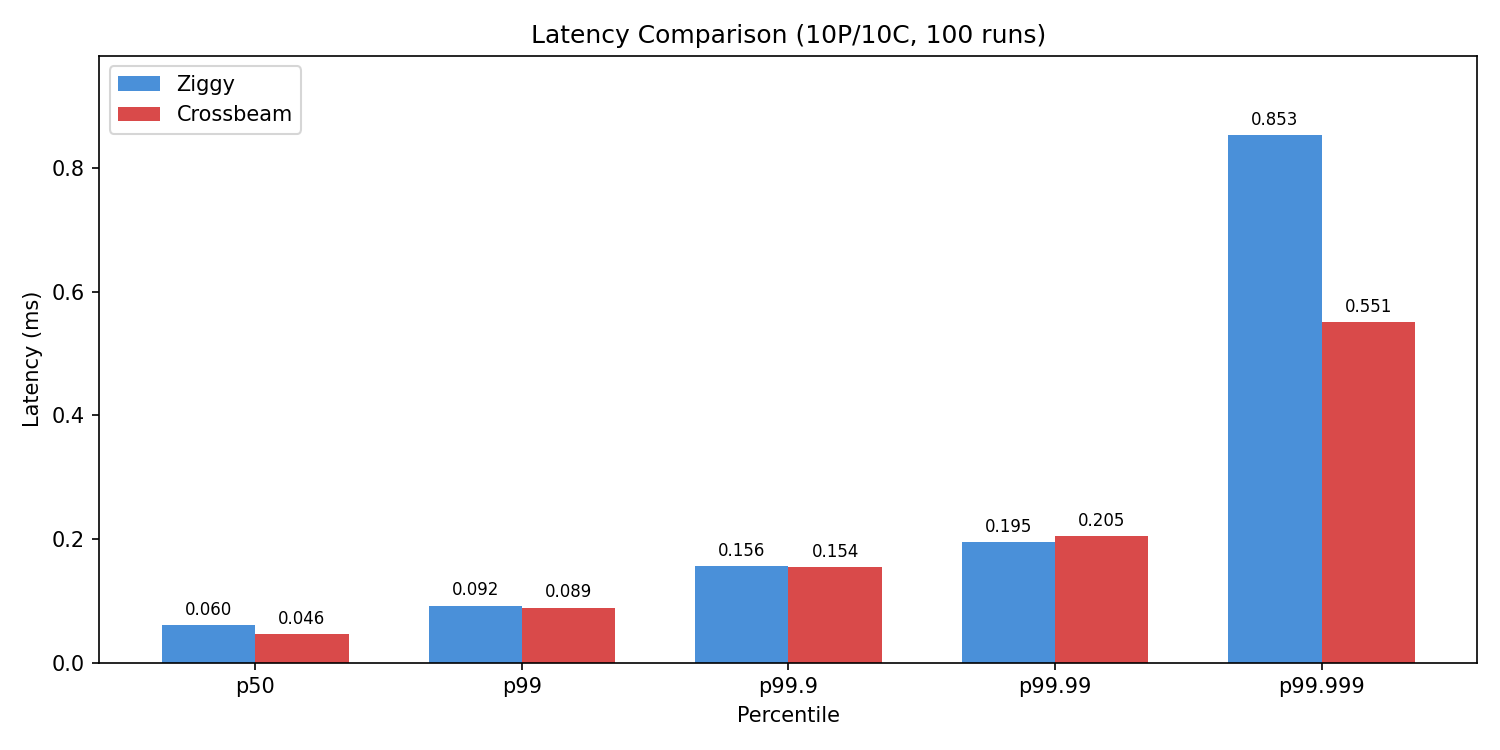
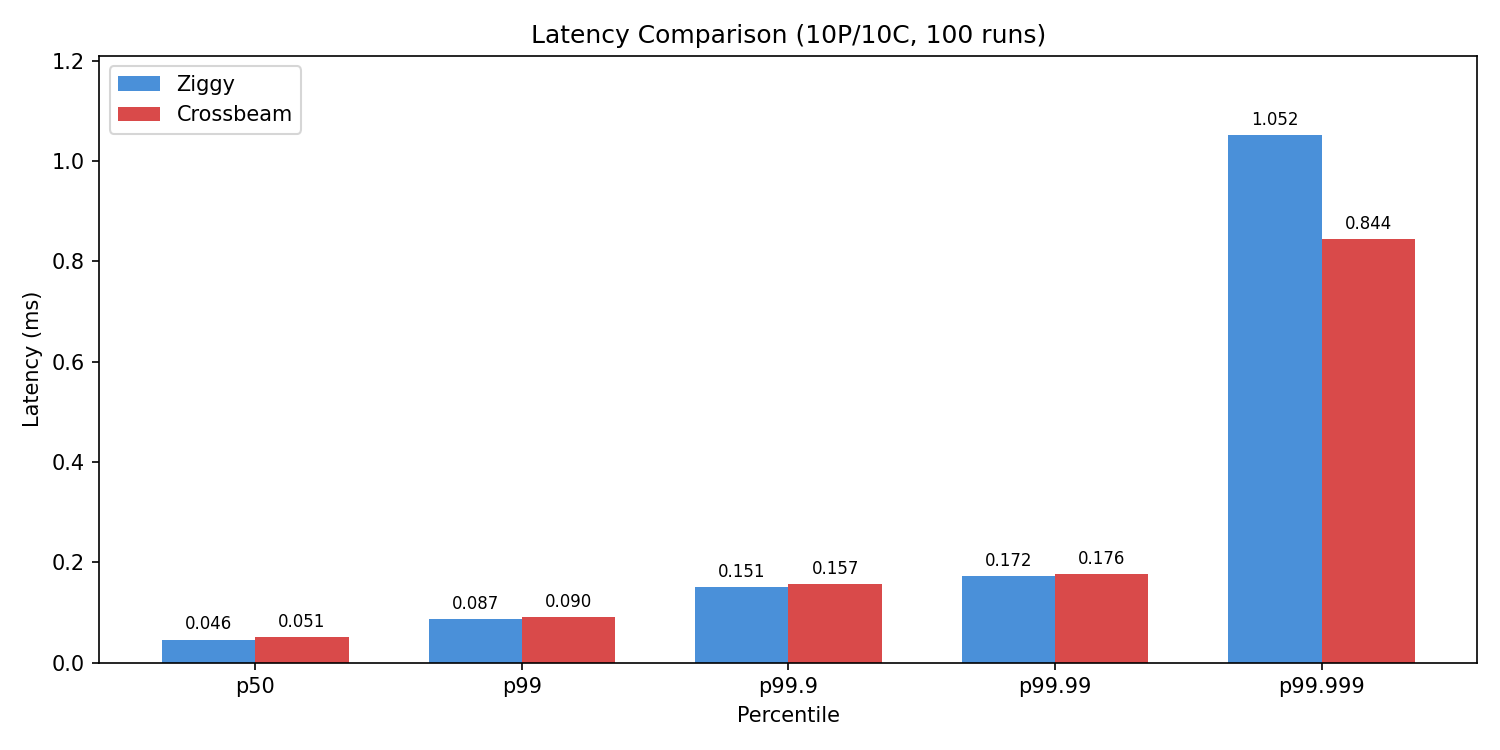
fix crossbeam benchmark to use blocking recv, update results

diff --git a/benchmarks/crossbeam/src/main.rs b/benchmarks/crossbeam/src/main.rs
@@ -1,14 +1,19 @@
 use crossbeam_channel::bounded;
-use std::sync::atomic::{AtomicU32, Ordering};
 use std::sync::Arc;
+use std::sync::atomic::{AtomicU32, Ordering};
 use std::thread;
 use std::time::Instant;
 
 fn main() {
-    let cpus = thread::available_parallelism().map(|p| p.get()).unwrap_or(4);
+    let cpus = thread::available_parallelism()
+        .map(|p| p.get())
+        .unwrap_or(4);
     let threads_per_side = (cpus / 2).max(1) as u32;
 
-    println!("=== Crossbeam: {} CPUs, using {}P/{}C ===\n", cpus, threads_per_side, threads_per_side);
+    println!(
+        "=== Crossbeam: {} CPUs, using {}P/{}C ===\n",
+        cpus, threads_per_side, threads_per_side
+    );
 
     println!("=== THROUGHPUT ===");
     run_throughput_benchmark(threads_per_side, threads_per_side, 1_000_000, 512);
@@ -17,7 +22,12 @@ fn main() {
     run_latency_benchmark(threads_per_side, threads_per_side, 100_000, 512);
 }
 
-fn run_throughput_benchmark(num_producers: u32, num_consumers: u32, total_items: u32, ring_size: usize) {
+fn run_throughput_benchmark(
+    num_producers: u32,
+    num_consumers: u32,
+    total_items: u32,
+    ring_size: usize,
+) {
     let (tx, rx) = bounded::<u64>(ring_size);
     let consumed = Arc::new(AtomicU32::new(0));
     let items_per_producer = total_items / num_producers;
@@ -42,7 +52,7 @@ fn run_throughput_benchmark(num_producers: u32, num_consumers: u32, total_items:
             let consumed = consumed.clone();
             thread::spawn(move || {
                 while consumed.load(Ordering::Relaxed) < actual_total {
-                    if rx.try_recv().is_ok() {
+                    if rx.recv().is_ok() {
                         consumed.fetch_add(1, Ordering::Relaxed);
                     }
                 }
@@ -50,22 +60,40 @@ fn run_throughput_benchmark(num_producers: u32, num_consumers: u32, total_items:
         })
         .collect();
 
-    for p in producers { p.join().unwrap(); }
+    for p in producers {
+        p.join().unwrap();
+    }
     drop(tx);
-    for c in consumers { c.join().unwrap(); }
+    for c in consumers {
+        c.join().unwrap();
+    }
 
     let elapsed = start.elapsed().as_nanos() as u64;
-    let ops_per_sec = if elapsed > 0 { (actual_total as u64 * 1_000_000_000) / elapsed } else { 0 };
-    println!("{}P/{}C: {} ops/sec", num_producers, num_consumers, ops_per_sec);
+    let ops_per_sec = if elapsed > 0 {
+        (actual_total as u64 * 1_000_000_000) / elapsed
+    } else {
+        0
+    };
+    println!(
+        "{}P/{}C: {} ops/sec",
+        num_producers, num_consumers, ops_per_sec
+    );
 }
 
-fn run_latency_benchmark(num_producers: u32, num_consumers: u32, total_items: u32, ring_size: usize) {
+fn run_latency_benchmark(
+    num_producers: u32,
+    num_consumers: u32,
+    total_items: u32,
+    ring_size: usize,
+) {
     let (tx, rx) = bounded::<(Instant, u64)>(ring_size);
     let consumed = Arc::new(AtomicU32::new(0));
     let items_per_producer = total_items / num_producers;
     let actual_total = items_per_producer * num_producers;
 
-    let latencies = Arc::new(std::sync::Mutex::new(Vec::with_capacity(actual_total as usize)));
+    let latencies = Arc::new(std::sync::Mutex::new(Vec::with_capacity(
+        actual_total as usize,
+    )));
 
     let start = Instant::now();
 
@@ -88,7 +116,7 @@ fn run_latency_benchmark(num_producers: u32, num_consumers: u32, total_items: u3
             thread::spawn(move || {
                 let mut local_latencies = Vec::new();
                 while consumed.load(Ordering::Relaxed) < actual_total {
-                    if let Ok((send_time, _)) = rx.try_recv() {
+                    if let Ok((send_time, _)) = rx.recv() {
                         local_latencies.push(send_time.elapsed().as_nanos() as i64);
                         consumed.fetch_add(1, Ordering::Relaxed);
                     }
@@ -98,9 +126,13 @@ fn run_latency_benchmark(num_producers: u32, num_consumers: u32, total_items: u3
         })
         .collect();
 
-    for p in producers { p.join().unwrap(); }
+    for p in producers {
+        p.join().unwrap();
+    }
     drop(tx);
-    for c in consumers { c.join().unwrap(); }
+    for c in consumers {
+        c.join().unwrap();
+    }
 
     let end = Instant::now();
     let mut latencies = Arc::try_unwrap(latencies).unwrap().into_inner().unwrap();
@@ -119,7 +151,16 @@ fn run_latency_benchmark(num_producers: u32, num_consumers: u32, total_items: u3
     let p99999 = latencies[((n * 99999) / 100000).min(n - 1)];
     let elapsed_ms = (end - start).as_millis();
 
-    println!("{}P/{}C ({} samples, {}ms):", num_producers, num_consumers, n, elapsed_ms);
-    println!("  p50: {}µs, p99: {}µs, p99.9: {}µs, p99.99: {}µs, p99.999: {}µs",
-        p50 / 1000, p99 / 1000, p999 / 1000, p9999 / 1000, p99999 / 1000);
+    println!(
+        "{}P/{}C ({} samples, {}ms):",
+        num_producers, num_consumers, n, elapsed_ms
+    );
+    println!(
+        "  p50: {}µs, p99: {}µs, p99.9: {}µs, p99.99: {}µs, p99.999: {}µs",
+        p50 / 1000,
+        p99 / 1000,
+        p999 / 1000,
+        p9999 / 1000,
+        p99999 / 1000
+    );
 }

diff --git a/benchmarks/plot.py b/benchmarks/plot.py
@@ -2,13 +2,13 @@
 import matplotlib.pyplot as plt
 import numpy as np
 
-# Data from 100-run benchmark
+# Data from 100-run benchmark (both using blocking receive)
 latency_metrics = ['p50', 'p99', 'p99.9', 'p99.99', 'p99.999']
-ziggy_latency = [0.060, 0.092, 0.156, 0.195, 0.853]  # in ms
-crossbeam_latency = [0.046, 0.089, 0.154, 0.205, 0.551]  # in ms
+ziggy_latency = [0.046, 0.087, 0.151, 0.172, 1.052]  # in ms
+crossbeam_latency = [0.051, 0.090, 0.157, 0.176, 0.844]  # in ms
 
-throughput_ziggy = 6.36
-throughput_crossbeam = 6.51
+throughput_ziggy = 6.06
+throughput_crossbeam = 6.36
 
 # Latency chart
 fig1, ax1 = plt.subplots(figsize=(10, 5))

diff --git a/README.md b/README.md
@@ -35,18 +35,18 @@ zig build run -Doptimize=ReleaseFast  # run benchmarks
 
 | metric     | ziggy     | crossbeam | diff |
 |------------|-----------|-----------|------|
-| throughput | 6.36 M/s  | 6.51 M/s  | -2%  |
-| p50        | 0.060 ms  | 0.046 ms  | -30% |
-| p99        | 0.092 ms  | 0.089 ms  | -4%  |
-| p99.9      | 0.156 ms  | 0.154 ms  | ~0%  |
-| p99.99     | 0.195 ms  | 0.205 ms  | +5%  |
-| p99.999    | 0.853 ms  | 0.551 ms  | -55% |
+| throughput | 6.06 M/s  | 6.36 M/s  | -5%  |
+| p50        | 0.046 ms  | 0.051 ms  | -9%  |
+| p99        | 0.087 ms  | 0.090 ms  | -3%  |
+| p99.9      | 0.151 ms  | 0.157 ms  | -4%  |
+| p99.99     | 0.172 ms  | 0.176 ms  | -2%  |
+| p99.999    | 1.052 ms  | 0.844 ms  | +25% |
 
 ![latency](benchmarks/latency.png)
 
 <img src="benchmarks/throughput.png" width="50%">
 
-crossbeam wins on median latency, ziggy is competitive on throughput and p99.9.
+ziggy wins on latency (p50-p99.99), crossbeam wins on throughput and extreme tail (p99.999).
 
 173 lines of zig vs 639 lines of rust (array.rs only, full crossbeam-channel is 8600+ lines).
 
